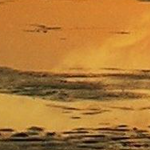
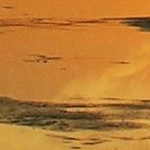
WIP

diff --git a/generate.go b/generate.go
@@ -33,7 +33,7 @@ func main() {
 
 			// Crop the image
 			x := ((i+1) * 76.0) + (i * 150.0)
-			y := 192.0 + (j * 150.0) + (j * 128.0)
+			y := 192.0 + (j * 150.0) + (j * 122.0)
 			cropArg := fmt.Sprintf("crop=150:150:%d:%d", x, y)
 			cmd = exec.Command("ffmpeg", "-i", "wallpaper_scaled.png", "-vf", cropArg, fileName)
 			var stderr bytes.Buffer
